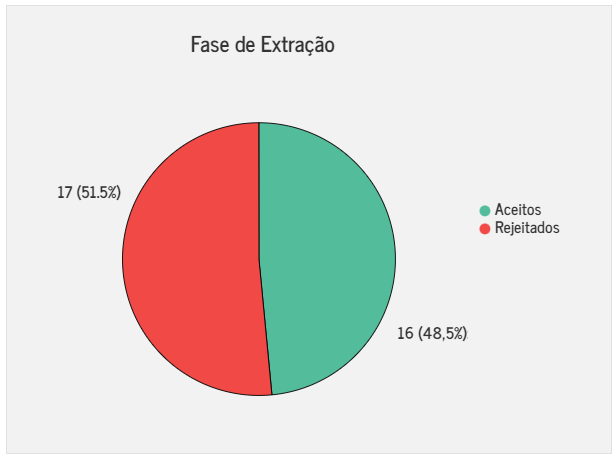
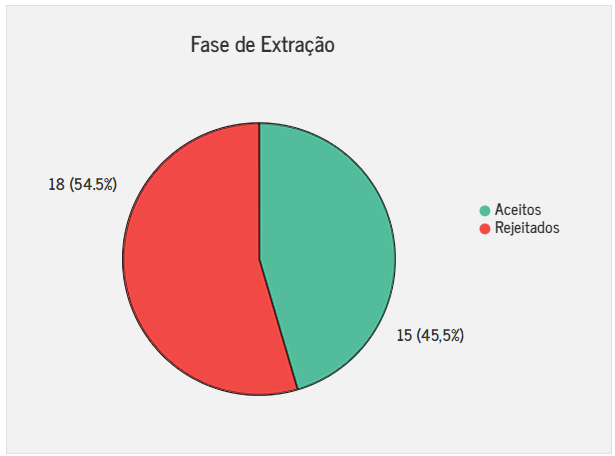
:sparkles: finalização do protocolo e resultados do MSL

diff --git a/Conteudo/03_ProtocoloMSL.tex b/Conteudo/03_ProtocoloMSL.tex
@@ -3,7 +3,9 @@ Este capítulo abordará o processo de Mapeamento Sistemático adotado neste est
 
 
 \section{Protocolo de Mapeamento Sistemático}
-O termo Mapeamento Sistemático da Literatura (MSL) se refere a uma revisão ampla de estudos primários existentes em um tema específico e visa identificar as evidências disponíveis nessa área \cite{Kitchenham2007}. O método de Mapeamento Sistemático adotado foi o de Kitchenham, descrito em \citeonline{Silva2009}. De acordo com o método, foi desenvolvido um protocolo de revisão com intuito de responder as seguintes questões:
+O termo Mapeamento Sistemático da Literatura (MSL) se refere a uma revisão ampla de estudos primários existentes em um tema específico e visa identificar as evidências disponíveis nessa área \cite{Kitchenham2007}.
+O método de Mapeamento Sistemático adotado foi o de Kitchenham, descrito em \citeonline{Silva2009}.
+De acordo com o método, foi desenvolvido um protocolo de revisão com intuito de responder as seguintes questões:
 \begin{enumerate}
 \item Quais são as principais técnicas, padrões e métodos utilizados no desenvolvimento de aplicações móveis acessíveis para deficientes visuais?
 \item Quais são as tecnologias utilizadas no desenvolvimento dessas soluções?
@@ -11,10 +13,14 @@ O termo Mapeamento Sistemático da Literatura (MSL) se refere a uma revisão amp
 \item Quais são os públicos alvos dessas soluções?
 \end{enumerate}
 
-O \emph{Parfisal}\footnote{\url{https://parsif.al/}}, ferramenta \emph{online} que auxilia no desenvolvimento de Revisões Sistemáticas da Literatura, foi utilizado neste estudo. Com ele foi possível importar os resultados das buscas nas bases, identificar os artigos duplicados, definir os critérios para inclusão e exclusão, realizar a seleção dos estudos e, por fim, obter os relatórios para construção dos artefatos que apresentam o processo e os resultados desse MSL.
+O \emph{Parfisal}\footnote{\url{https://parsif.al/}}, ferramenta \emph{online} que auxilia no desenvolvimento de Revisões Sistemáticas da Literatura, foi utilizado neste estudo.
+Com ele foi possível importar os resultados das buscas nas bases, identificar os artigos duplicados, definir os critérios para inclusão e exclusão, realizar a seleção dos estudos e, por fim, obter os relatórios para construção dos artefatos que apresentam o processo e os resultados desse MSL.
 
 \subsection{Bases de Dados}
-Cinco bases de dados científicos foram escolhidas neste trabalho, a \emph{IEEE Xplore}\footnote{\url{https://ieeexplore.ieee.org}}, onde estão disponíveis conteúdos técnicos e científicos publicados pelo \emph{Institute of Electrical and Electronics Engineers (IEEE)} e seus parceiros, a \emph{Scopus}\footnote{\url{https://www.scopus.com}}, que é mantida pela \emph{Elsevier} e combina um abrangente banco de dados de resumos e citações de literatura acadêmica em diversas áreas, a \emph{ScienceDirect}\footnote{\url{https://www.sciencedirect.com}}, principal plataforma da \emph{Elsevier} de literatura revisada por pares, a \emph{ACM Digital Library}\footnote{\url{https://dl.acm.org}}, uma plataforma de pesquisa que conta com textos completos de todas as publicações da \emph{Association for Computing Machinery (ACM)} e de uma curada coleção de publicações de editoras selecionadas e a \emph{PubMed}\footnote{\url{https://pubmed.ncbi.nlm.nih.gov}}, plataforma gratuita que conta com uma base de dados com mais de 33 milhões de citações e resumos da literatura biomédica.
+Cinco bases de dados científicos foram escolhidas neste trabalho, a \emph{IEEE Xplore}\footnote{\url{https://ieeexplore.ieee.org}}, onde estão disponíveis conteúdos técnicos e científicos publicados pelo \emph{Institute of Electrical and Electronics Engineers (IEEE)} e seus parceiros,
+a \emph{Scopus}\footnote{\url{https://www.scopus.com}}, que é mantida pela \emph{Elsevier} e combina um abrangente banco de dados de resumos e citações de literatura acadêmica em diversas áreas, a \emph{ScienceDirect}\footnote{\url{https://www.sciencedirect.com}}, principal plataforma da \emph{Elsevier} de literatura revisada por pares,
+a \emph{ACM Digital Library}\footnote{\url{https://dl.acm.org}}, uma plataforma de pesquisa que conta com textos completos de todas as publicações da \emph{Association for Computing Machinery (ACM)} e de uma curada coleção de publicações de editoras selecionadas e a \emph{PubMed}\footnote{\url{https://pubmed.ncbi.nlm.nih.gov}},
+plataforma gratuita que conta com uma base de dados com mais de 33 milhões de citações e resumos da literatura biomédica.
 
 \subsection{\emph{String} de Busca}
 Para realização da busca dos artigos, um conjunto de palavras-chave e sinônimos foi definido de acordo com o tema deste trabalho, como é mostrado no \autoref{qua-pal-sin}.
@@ -34,7 +40,8 @@ Para realização da busca dos artigos, um conjunto de palavras-chave e sinônim
 \legend{Fonte: Autor}
 \end{quadro}
 
-Com o objetivo de manter a consistência da busca nas diferentes bases, foi gerada, a partir das palavras-chave, a \emph{string} de busca genérica indicada no \autoref{qua-str-gen}. As palavras-chave que possuem sinônimos aparecem na \emph{string} entre parêntesis com o operador \emph{OR}, visando incluir os resultados que contenham um dos termos, para indicar que esses termos são sinônimos no contexto do tema abordado neste trabalho.
+Com o objetivo de manter a consistência da busca nas diferentes bases, foi gerada, a partir das palavras-chave, a \emph{string} de busca genérica indicada no \autoref{qua-str-gen}.
+As palavras-chave que possuem sinônimos aparecem na \emph{string} entre parêntesis com o operador \emph{OR}, visando incluir os resultados que contenham um dos termos, para indicar que esses termos são sinônimos no contexto do tema abordado neste trabalho.
 
 \begin{quadro}[htb]
 \caption{\label{qua-str-gen}\emph{String} genérica.}
@@ -49,7 +56,8 @@ Com o objetivo de manter a consistência da busca nas diferentes bases, foi gera
 \legend{Fonte: Autor}
 \end{quadro}
 
-A \emph{string} genérica serviu de modelo para criação das \emph{strings} específicas, indicadas no \autoref{qua-str-esp}, de acordo com as particularidades de cada base de busca. As \emph{strings} específicas buscam pelas palavras-chave nos títulos e resumos dos artigos, afim de encontrar os que focam no tema proposto neste estudo, não considerando os que apenas citam as palavras-chave ao longo texto.
+A \emph{string} genérica serviu de modelo para criação das \emph{strings} específicas, indicadas no \autoref{qua-str-esp}, de acordo com as particularidades de cada base de busca.
+As \emph{strings} específicas buscam pelas palavras-chave nos títulos e resumos dos artigos, afim de encontrar os que focam no tema proposto neste estudo, não considerando os que apenas citam as palavras-chave ao longo texto.
 
 \begin{quadro}[htb]
 \caption{\label{qua-str-esp}\emph{Strings} específicas para busca em cada base.}
@@ -65,7 +73,10 @@ A \emph{string} genérica serviu de modelo para criação das \emph{strings} esp
 \legend{Fonte: Autor}
 \end{quadro}
 
-A busca nas bases de dados selecionadas foi realizada no dia 04 de outubro de 2021 e retornou um total de 258 resultados. Como mostra a \autoref{fig_art_enc}, a maior quantidade de resultados foi encontrada na \emph{Scopus}, isso acontece porque ela possui, de acordo com seu site\footnote{\url{https://www.elsevier.com/pt-br/solutions/scopus}}, o maior banco de dados de resumos e citações da literatura com revisão por pares. Em seguida aparecem a \emph{ACM Digital Library} (ACM) e a \emph{IEEE Xplore} (IEEE) cujas principais publicações são na área de computação, e elétrica no caso da IEEE. Por fim, com as menores quantidades, a \emph{ScienceDirect}, com publicações nas mais diversas áreas da ciência e a \emph{PubMed} com publicações na área biomédica, justificando os menores resultados, visto que a busca foi realizada visando encontrar técnicas, métodos e padrões para o desenvolvimento de aplicações móveis acessíveis.
+A busca nas bases de dados selecionadas foi realizada no dia 04 de outubro de 2021 e retornou um total de 258 resultados.
+Como mostra a \autoref{fig_art_enc}, a maior quantidade de resultados foi encontrada na \emph{Scopus}, isso acontece porque ela possui, de acordo com seu site\footnote{\url{https://www.elsevier.com/pt-br/solutions/scopus}}, o maior banco de dados de resumos e citações da literatura com revisão por pares.
+Em seguida aparecem a \emph{ACM Digital Library} e a \emph{IEEE Xplore} cujas principais publicações são na área de computação, e elétrica no caso da IEEE\@.
+Por fim, com as menores quantidades, a \emph{ScienceDirect}, com publicações nas mais diversas áreas da ciência e a \emph{PubMed} com publicações na área biomédica, justificando os menores resultados, visto que a busca foi realizada visando encontrar técnicas, métodos e padrões para o desenvolvimento de aplicações móveis acessíveis.
 
 \begin{figure}[htb]
 	\caption{\label{fig_art_enc}Quantidade de artigos encontrados por base.}
@@ -77,7 +88,8 @@ A busca nas bases de dados selecionadas foi realizada no dia 04 de outubro de 20
 
 \subsection{Critérios de Inclusão e Exclusão}
 
-Critérios de inclusão e exclusão foram definidos visando a coerência dos artigos selecionados com o tema deste trabalho, bem como a remoção de artigos incompletos ou indisponíveis. Os critérios de inclusão e exclusão são:
+Critérios de inclusão e exclusão foram definidos visando a coerência dos artigos selecionados com o tema deste trabalho, bem como a remoção de artigos incompletos ou indisponíveis.
+Os critérios são:
 
 \textbf{Critérios de Inclusão}
 \begin{itemize}
@@ -89,14 +101,18 @@ Critérios de inclusão e exclusão foram definidos visando a coerência dos art
 
 \textbf{Critérios de Exclusão}
 \begin{itemize}
-  \item O artigo não propõe um \emph{app mobile};
+  \item O artigo não apresenta proposta de aplicação móvel como solução;
   \item O artigo não apresenta aplicativo desenvolvido no contexto do tema deste trabalho;
   \item O artigo é um livro ou parte de um;
   \item O artigo foi publicado antes de 2016;
   \item O artigo está incompleto, indisponível ou duplicado.
 \end{itemize}
 
-No processo de seleção dos estudos, inicialmente, foi aplicado o critério de exclusão de artigos duplicados e, em seguida, o de artigos publicados antes de 2016, rejeitando 48 e 65 artigos, respectivamente. Esses critérios foram priorizados por não haver a necessidade da leitura dos títulos e resumos dos artigos para serem aplicados. Por fim, após a leitura dos títulos e resumos, mais 112 artigos foram rejeitados, totalizando 225 artigos. Assim, sendo aceitos 33 artigos para leitura completa e análise. A \autoref{fig_res_sel} apresenta o resultado dessa seleção.
+No processo de seleção dos estudos, inicialmente, foi aplicado o critério de exclusão de artigos duplicados e, em seguida, o de artigos publicados antes de 2016, rejeitando 48 e 65 artigos, respectivamente.
+Esses critérios foram priorizados por não haver a necessidade da leitura dos títulos e resumos dos artigos para serem aplicados.
+Por fim, após a leitura dos títulos e resumos, mais 112 artigos foram rejeitados, totalizando 225 artigos.
+Assim, sendo aceitos 33 artigos para leitura completa e análise.
+A \autoref{fig_res_sel} apresenta o resultado dessa seleção.
 
 \begin{figure}[htb]
 	\caption{\label{fig_res_sel}Quantidade de artigos aceitos, rejeitados e duplicados na seleção.}
@@ -106,7 +122,9 @@ No processo de seleção dos estudos, inicialmente, foi aplicado o critério de 
 	\legend{Fonte: Autor}
 \end{figure}
 
-A \autoref{fig_res_sel_base} mostra o resultado da seleção para cada base de busca. Não houve priorização de bases ao rejeitar artigos duplicados, visto que a ferramenta utilizada possui uma funcionalidade que indica esses artigos, sendo necessário apenas a confirmação. Com isso, algumas bases como a \emph{PubMed}, cujo resultado da busca retornou apenas 3 artigos sendo 1 duplicado, acabou apresentando poucos ou nenhum artigo aceito.
+A \autoref{fig_res_sel_base} mostra o resultado da seleção para cada base de busca.
+Não houve priorização de bases ao rejeitar artigos duplicados, visto que a ferramenta utilizada possui uma funcionalidade que indica esses artigos, sendo necessário apenas a confirmação.
+Com isso, algumas bases como a \emph{PubMed}, cujo resultado da busca retornou apenas 3 artigos sendo 1 duplicado, acabou apresentando poucos ou nenhum artigo aceito.
 
 \begin{figure}[htb]
 	\caption{\label{fig_res_sel_base}Quantidade de artigos aceitos e rejeitados por base.}
@@ -128,9 +146,14 @@ A frequência dos artigos rejeitados, de acordo com os critérios de exclusão, 
 	\legend{Fonte: Autor}
 \end{figure}
 
-Os critérios de exclusão levaram em consideração, principalmente, aspectos como divergência com o tema deste trabalho e não apresentação de aplicação desenvolvida para dispositivos móveis. Os critérios D e E aparecem com grande frequência na \autoref{fig_art_rej}, valendo ressaltar a ordem na avaliação dos critérios (E, D, A, B e C), onde os artigos que se enquadraram em um dos critérios foram rejeitados, não sendo considerados para avaliação nos demais. É comum que o critério D seja utilizado no próprio processo de busca dos artigos, filtrando apenas os anos de interesse, porém, como não foi possível adicionar esse filtro às \emph{strings} de busca para todas as bases, foi optado por não utiliza-lo, para manter a consistência nos resultados das buscas.
+Os critérios de exclusão levaram em consideração, principalmente, aspectos como divergência com o tema deste trabalho e não apresentação de aplicação desenvolvida para dispositivos móveis.
+Os critérios D e E aparecem com grande frequência na \autoref{fig_art_rej}, valendo ressaltar a ordem na avaliação dos critérios (E, D, A, B e C), onde os artigos que se enquadraram em um dos critérios foram rejeitados, não sendo considerados para avaliação nos demais.
+É comum que o critério D seja utilizado no próprio processo de busca dos artigos, filtrando apenas os anos de interesse, porém, como não foi possível adicionar esse filtro às \emph{strings} de busca para todas as bases, foi optado por não utiliza-lo, para manter a consistência nos resultados das buscas.
 
-Após a aplicação dos critérios de exclusão, através da leitura e análise dos títulos e resumos, os artigos restantes, a priori, mostraram se enquadrar em todos os critérios de inclusão. Assim, a \autoref{fig_art_act_ano} exibe a distribuição desses artigos por ano de publicação e base de busca, mostrando uma clara tendência de alta anual, nos últimos 5 anos, na quantidade de artigos que abordam o tema deste trabalho. A base \emph{PubMed} foi desconsiderada nessa figura, visto que nenhum artigo dela foi selecionado como mostrou a \autoref{fig_art_rej}. 
+Após a aplicação dos critérios de exclusão, através da leitura e análise dos títulos e resumos, os artigos restantes, a priori, mostraram se enquadrar em todos os critérios de inclusão.
+Assim, a \autoref{fig_art_act_ano} exibe a distribuição desses artigos por ano de publicação e base de busca, mostrando uma clara tendência de alta anual, nos últimos 5 anos, na quantidade de artigos que abordam o tema deste trabalho.
+A base \emph{PubMed} foi desconsiderada nessa figura, visto que nenhum artigo dela foi selecionado como mostrou a \autoref{fig_art_rej}.
+
 
 \begin{figure}[htb]
 	\caption{\label{fig_art_act_ano}Quantidade de artigos aceitos por ano e base.}
@@ -144,7 +167,8 @@ Após a aplicação dos critérios de exclusão, através da leitura e análise 
 
 \subsection{Fase de Extração}
 
-Durante a fase de extração, uma análise mais aprofundada dos artigos foi realizada, inicialmente com intuito de reaplicar os critérios já definidos e utilizados na fase anterior. O resultado dessa última filtragem pode ser visto na \autoref{fig_fas_ext}.
+Durante a fase de extração, uma análise mais aprofundada dos artigos foi realizada, inicialmente com intuito de reaplicar os critérios já definidos e utilizados na fase anterior.
+O resultado dessa última filtragem pode ser visto na \autoref{fig_fas_ext}.
 
 \begin{figure}[htb]
 	\caption{\label{fig_fas_ext}Artigos aceitos e rejeitados na fase de extração.}
@@ -154,30 +178,47 @@ Durante a fase de extração, uma análise mais aprofundada dos artigos foi real
 	\legend{Fonte: Autor}
 \end{figure}
 
-Os 16 estudos aceitos na fase de extração, selecionados para leitura completa, foram reunidos no \autoref{qua-art-ext} com a listagem de informações como o título do estudo, referência e o nome da base de dados em que o artigo foi encontrado. Lorem Ipsum is simply dummy text of the printing and typesetting industry. Lorem Ipsum has been the industry's standard dummy text ever since the 1500s, when an unknown printer took a galley of type and scrambled it to make a type specimen book. It has survived not only five centuries, but also the leap into electronic typesetting, remaining essentially unchanged. It was popularised in the 1960s with the release of Letraset sheets containing Lorem Ipsum passages, and more recently with desktop publishing software like Aldus PageMaker including versions of Lorem Ipsum.
+Como a aplicação inicial dos critérios foi realizada com base apenas na leitura dos títulos e resumos dos estudos, não foi possível garantir que os artigos aceitos realmente não se enquadravam nos critérios de exclusão.
+Assim, com a análise mais aprofundada e leitura completa dos textos, foi possível identificar 18 artigos que se enquadravam em algum desses critérios, como mostrou a \autoref{fig_fas_ext}.
+
+A \autoref{fig_art_rej_fas_ext} mostra a frequência de artigos que foram rejeitados por cada critério de exclusão.
+Apenas os critérios com frequência maior que 0 foram considerados na figura.
+O principal motivo para rejeição foi o B, onde os trabalhos apresentavam aplicações móveis que não haviam sido desenvolvidas com foco na acessibilidade da aplicação em si.
+O segundo foi o A, onde os estudos não apresentavam uma aplicação móvel com acessibilidade à PDV como solução.
+
+\begin{figure}[htb]
+	\caption{\label{fig_art_rej_fas_ext}Artigos rejeitados na fase de extração por critério exclusão.}
+	\begin{center}
+	    \includegraphics[scale=0.7]{Imagens/msl/artigos_rejeitados_fase_extracao.png}
+	\end{center}
+	\legend{Fonte: Autor}
+\end{figure}
+
+\newpage
+
+Os 15 estudos aceitos na fase de extração, foram reunidos no \autoref{qua-art-ext} com a listagem de informações como o título do estudo, referência e o nome da base de dados em que o artigo foi encontrado.
 
 \begin{quadro}[htb!]
 \caption{\label{qua-art-ext}Artigos aceitos na fase de extração.}
-\begin{tabular}{|m{9.5cm} | m{2.7cm} | m{2.5cm}|}
+\begin{tabular}{|m{0.8cm} | m{8.2cm} | m{2.7cm} | m{2.5cm}|}
   %\hline
     \hline
-   \textbf{Título} & \textbf{Referência} & \textbf{Base de dados} \\ \hline
-    \emph{A Mobile Educational Game Accessible to All, Including Screen Reading Users on a Touch-Screen Device} & \cite{Leporini2017} & \emph{ACM Digital Library} \\ \hline
-    \emph{A model-driven approach to cross-platform development of accessible business apps} & \cite{Christoph2020} & \emph{ACM Digital Library} \\ \hline
-    \emph{An Accessible Roller Coaster Simulator for Touchscreen Devices: An Educational Game for the Visually Impaired} & \cite{Biase2018} & \emph{IEEE Xplore} \\ \hline
-    \emph{Application for the Configuration and Adaptation of the Android Operating System for the Visually Impaired} & \cite{Oliveira2018} & \emph{ACM Digital Library} \\ \hline
-    \emph{Blind and visually impaired user interface to solve accessibility problems} & \cite{Shera2021285} & \emph{Scopus} \\ \hline
-    \emph{Design and development of a mobile app of drug information for people with visual impairment} & \cite{Amariles2020} & \emph{ScienceDirect} \\ \hline
-    \emph{Designing multimodal mobile interaction for a text messaging application for visually impaired users} & \cite{Duarte2017} & \emph{Scopus} \\ \hline
-    \emph{Do You like My Outfit? Cromnia, a Mobile Assistant for Blind Users} & \cite{Giuliana2018} & \emph{ACM Digital Library} \\ \hline
-    \emph{Effect of UX Design Guideline on the information accessibility for the visually impaired in the mobile health apps} & \cite{Kim20191103} & \emph{Scopus} \\ \hline
-    \emph{Improved and Accessible E-Book Reader Application for Visually Impaired People} & \cite{Heesook2017} & \emph{ACM Digital Library} \\ \hline
-    \emph{MathMelodies 2: A Mobile Assistive Application for People with Visual Impairments Developed with React Native} & \cite{Ducci2018} & \emph{ACM Digital Library} \\ \hline
-    \emph{Object Recognition and Hearing Assistive Technology Mobile Application Using Convolutional Neural Network} & \cite{Caballero2020} & \emph{ACM Digital Library} \\ \hline
-    \emph{QUIMIVOX MOBILE 2.0: Application for Helping Visually Impaired People in Learning Periodic Table and Electron Configuration} & \cite{Oliveira2019} & \emph{ACM Digital Library} \\ \hline
-    \emph{"Talkin' about the weather": Incorporating TalkBack functionality and sonifications for accessible app design} & \cite{Tomlinson2016377} & \emph{Scopus} \\ \hline
-    \emph{Users’ perception on usability aspects of a braille learning mobile application ‘mBRAILLE’} & \cite{Nahar2019100} & \emph{Scopus} \\ \hline
-    \emph{WordMelodies: Supporting Children with Visual Impairment in Learning Literacy} & \cite{Mascetti2019} & \emph{ACM Digital Library} \\ \hline
+    \textbf{Sigla} &\textbf{Título} & \textbf{Referência} & \textbf{Base de dados} \\ \hline
+    A1 & \emph{A Mobile Educational Game Accessible to All, Including Screen Reading Users on a Touch-Screen Device} & \cite{Leporini2017} & \emph{ACM Digital Library} \\ \hline
+    A2 & \emph{A model-driven approach to cross-platform development of accessible business apps} & \cite{Christoph2020} & \emph{ACM Digital Library} \\ \hline
+    A3 & \emph{An Accessible Roller Coaster Simulator for Touchscreen Devices: An Educational Game for the Visually Impaired} & \cite{Biase2018} & \emph{IEEE Xplore} \\ \hline
+    A4 & \emph{Application for the Configuration and Adaptation of the Android Operating System for the Visually Impaired} & \cite{Oliveira2018} & \emph{ACM Digital Library} \\ \hline
+    A5 & \emph{Blind and visually impaired user interface to solve accessibility problems} & \cite{Shera2021285} & \emph{Scopus} \\ \hline
+    A6 & \emph{Design and development of a mobile app of drug information for people with visual impairment} & \cite{Amariles2020} & \emph{ScienceDirect} \\ \hline
+    A7 & \emph{Designing multimodal mobile interaction for a text messaging application for visually impaired users} & \cite{Duarte2017} & \emph{Scopus} \\ \hline
+    A8 & \emph{Do You like My Outfit? Cromnia, a Mobile Assistant for Blind Users} & \cite{Giuliana2018} & \emph{ACM Digital Library} \\ \hline
+    A9 & \emph{Improved and Accessible E-Book Reader Application for Visually Impaired People} & \cite{Heesook2017} & \emph{ACM Digital Library} \\ \hline
+    A10 & \emph{MathMelodies 2: A Mobile Assistive Application for People with Visual Impairments Developed with React Native} & \cite{Ducci2018} & \emph{ACM Digital Library} \\ \hline
+    A11 & \emph{Object Recognition and Hearing Assistive Technology Mobile Application Using Convolutional Neural Network} & \cite{Caballero2020} & \emph{ACM Digital Library} \\ \hline
+    A12 & \emph{QUIMIVOX MOBILE 2.0: Application for Helping Visually Impaired People in Learning Periodic Table and Electron Configuration} & \cite{Oliveira2019} & \emph{ACM Digital Library} \\ \hline
+    A13 & \emph{``Talkin' about the weather'': Incorporating TalkBack functionality and sonifications for accessible app design} & \cite{Tomlinson2016377} & \emph{Scopus} \\ \hline
+    A14 & \emph{Users’ perception on usability aspects of a braille learning mobile application ‘mBRAILLE’} & \cite{Nahar2019100} & \emph{Scopus} \\ \hline
+    A15 & \emph{WordMelodies: Supporting Children with Visual Impairment in Learning Literacy} & \cite{Mascetti2019} & \emph{ACM Digital Library} \\ \hline
    % \hline
 \end{tabular}
 \legend{Fonte: Autor}

diff --git a/Conteudo/04_ResultadoMSL.tex b/Conteudo/04_ResultadoMSL.tex
@@ -228,10 +228,6 @@ Os testes envolveram 6 PDV com parcial e 6 com DV total.
 Os participantes gostaram dos benefícios do \emph{app} e se mostraram ansiosos para experimentar novas versões, pensando em quando poderão utilizar o aplicativo de fato no dia-a-dia.
 O \emph{app} está disponível na \emph{AppStore} e conta com alto número de \emph{downloads}.
 
-\subsection{\emph{Effect of UX Design Guideline on the information accessibility for the visually impaired in the mobile health apps}}
-
-\lipsum[31]
-
 \subsection{\emph{Improved and Accessible E-Book Reader Application for Visually Impaired People}}
 
 Embora livros digitais já estejam estabelecidos internacionalmente, não são satisfatórios em termos de acessibilidade e \emph{interface}.
